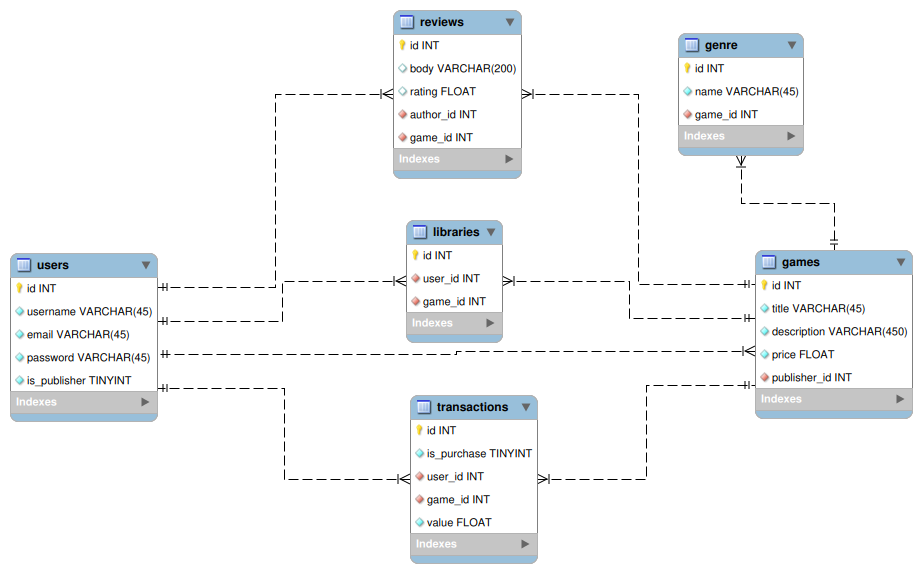
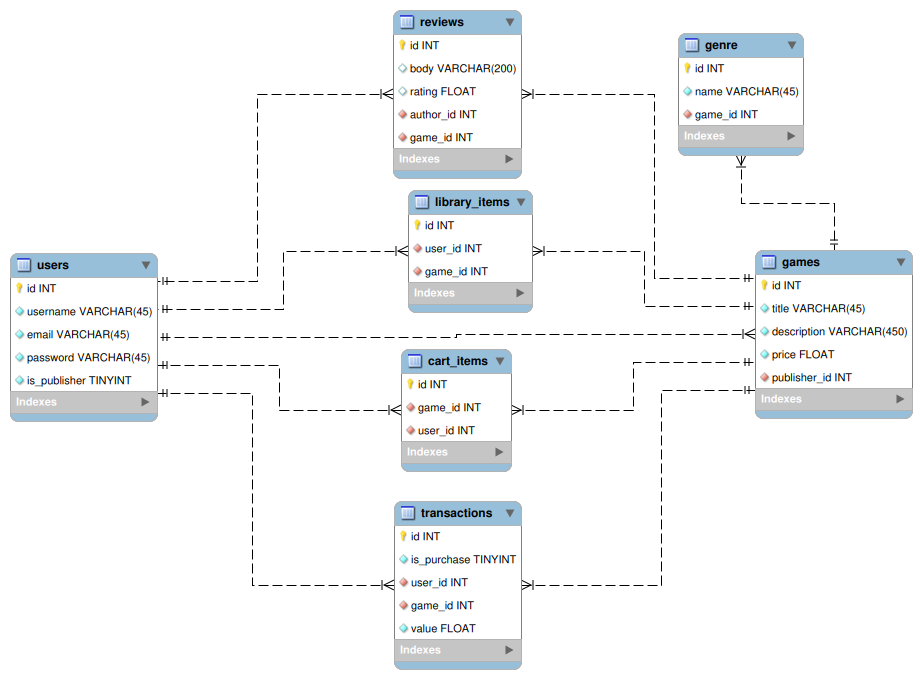
Updated ERD and Added Loggout Button to the Profile Pages

diff --git a/pages/Transactions.html b/pages/Transactions.html
@@ -47,7 +47,8 @@
                     <ul class="list-group list-group-flush border rounded h-100">
                         <li class="list-group-item list-group-item-action">Account Settings</li>
                         <li class="list-group-item list-group-item-action">Security</li>
-                        <li class="list-group-item active rounded-0">Transactions</li>
+                        <li class="list-group-item active mb-auto">Transactions</li>
+                        <button class="list-group-item list-group-item-action border-top text-danger">Logout</button>
                     </ul>
                 </div>
                 <div class="p-5 ps-2 col-9">

diff --git a/pages/security.html b/pages/security.html
@@ -48,7 +48,8 @@
                 <ul class="list-group list-group-flush border rounded h-100">
                   <li class="list-group-item list-group-item-action">Account Settings</li>
                   <li class="list-group-item active">Security</li>
-                  <li class="list-group-item list-group-item-action rounded-0">Transactions</li>
+                  <li class="list-group-item list-group-item-action mb-auto">Transactions</li>
+                  <button class="list-group-item list-group-item-action border-top text-danger">Logout</button>
                 </ul>
               </div>
               <div class="p-5 ps-2 col-9">

diff --git a/pages/user_settings.html b/pages/user_settings.html
@@ -48,7 +48,8 @@
                 <ul class="list-group list-group-flush border rounded h-100">
                   <li class="list-group-item active">Account Settings</li>
                   <li class="list-group-item list-group-item-action">Security</li>
-                  <li class="list-group-item list-group-item-action rounded-0">Transactions</li>
+                  <li class="list-group-item list-group-item-action mb-auto">Transactions</li>
+                  <button class="list-group-item list-group-item-action border-top text-danger">Logout</button>
                 </ul>
               </div>
               <div class="p-5 ps-2 col-9">
